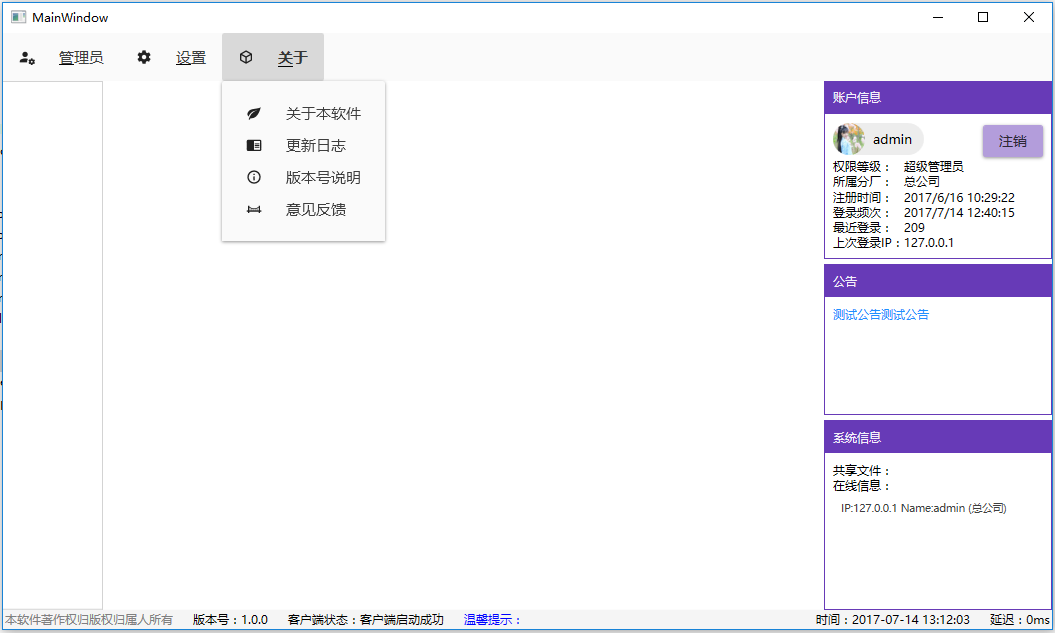
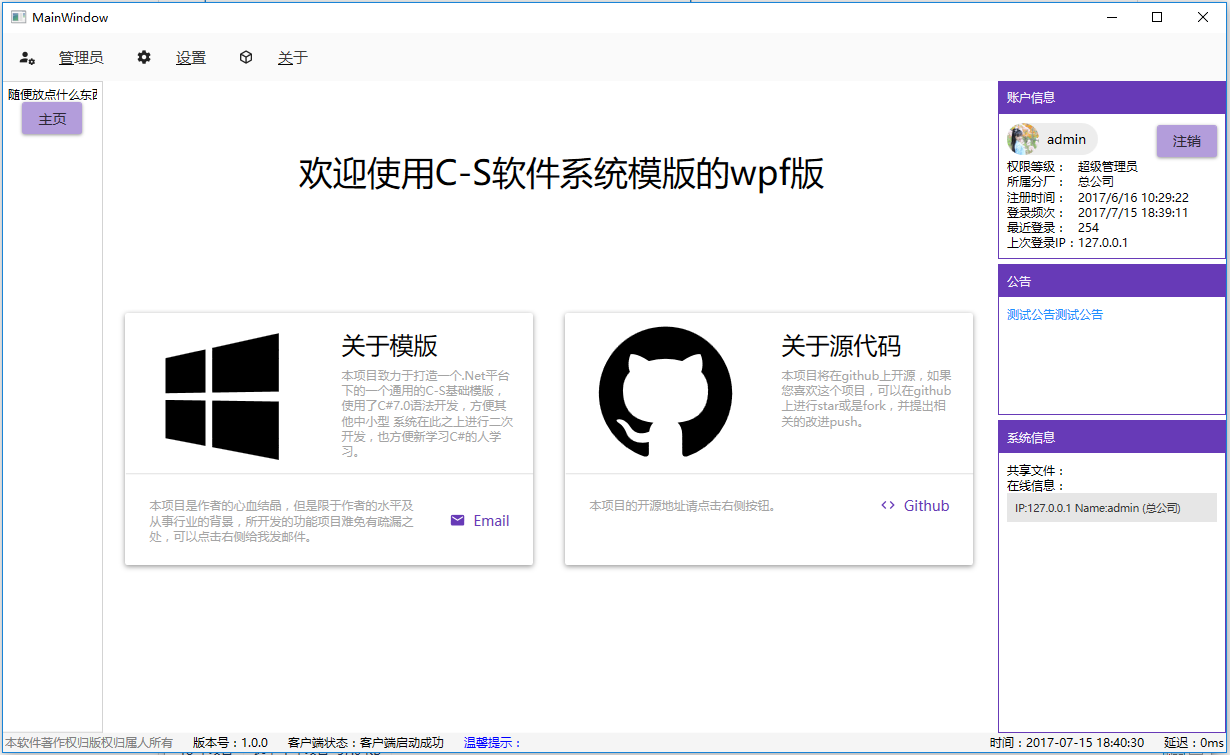
提供一个主界面显示一些项目描述。

diff --git a/软件系统客户端Wpf/Views/UserHome.xaml b/软件系统客户端Wpf/Views/UserHome.xaml
@@ -4,9 +4,111 @@
              xmlns:mc="http://schemas.openxmlformats.org/markup-compatibility/2006" 
              xmlns:d="http://schemas.microsoft.com/expression/blend/2008" 
              xmlns:local="clr-namespace:软件系统客户端Wpf.Views"
+             xmlns:materialDesign="http://materialdesigninxaml.net/winfx/xaml/themes"
              mc:Ignorable="d" 
-             d:DesignHeight="300" d:DesignWidth="300">
+             d:DesignHeight="500" d:DesignWidth="800">
+    <UserControl.Resources>
+        <ResourceDictionary>
+            <ResourceDictionary.MergedDictionaries>
+                <ResourceDictionary Source="pack://application:,,,/MaterialDesignThemes.Wpf;component/Themes/MaterialDesignTheme.Button.xaml" />
+                <ResourceDictionary Source="pack://application:,,,/MaterialDesignThemes.Wpf;component/Themes/MaterialDesignTheme.PopupBox.xaml" />
+                <ResourceDictionary Source="pack://application:,,,/MaterialDesignThemes.Wpf;component/Themes/MaterialDesignTheme.TextBlock.xaml" />
+                <!-- throw in some extra colour for our floating action button -->
+                <ResourceDictionary Source="pack://application:,,,/MaterialDesignColors;component/Themes/MaterialDesignColor.Green.Named.Primary.xaml" />
+            </ResourceDictionary.MergedDictionaries>
+        </ResourceDictionary>
+    </UserControl.Resources>
     <Grid>
-            
+        <Grid.RowDefinitions>
+            <RowDefinition Height="Auto" />
+            <RowDefinition Height="Auto" />
+        </Grid.RowDefinitions>
+        <Grid HorizontalAlignment="Center" VerticalAlignment="Top" Margin="16,50,16,16">
+            <Grid.ColumnDefinitions>
+                <ColumnDefinition Width="Auto" />
+                <ColumnDefinition Width="Auto" />
+            </Grid.ColumnDefinitions>
+            <!--<Image Source="Resources/ms-icon-310x310.png" Stretch="Uniform" Width="100" Height="100" />-->
+            <StackPanel Grid.Column="1" Margin="24 16 0 0" VerticalAlignment="Center">
+                <TextBlock Style="{StaticResource MaterialDesignDisplay1TextBlock}" TextWrapping="Wrap">欢迎使用C-S软件系统模版的wpf版</TextBlock>
+            </StackPanel>
+        </Grid>
+        <ScrollViewer Grid.Row="1" HorizontalScrollBarVisibility="Auto" VerticalScrollBarVisibility="Disabled"
+                      HorizontalAlignment="Center"
+                      VerticalAlignment="Bottom"
+                      Margin="0 100 0 32">
+            <Grid>
+                <StackPanel Orientation="Horizontal">
+                    <materialDesign:Card Width="420" Margin="4 2 8 16" Height="270">
+                        <Grid VerticalAlignment="Stretch">
+                            <Grid.RowDefinitions>
+                                <RowDefinition Height="Auto" />
+                                <RowDefinition Height="Auto" />
+                            </Grid.RowDefinitions>
+                            <Grid.ColumnDefinitions>
+                                <ColumnDefinition Width="200" />
+                                <ColumnDefinition Width="*" />
+                            </Grid.ColumnDefinitions>
+                            <materialDesign:PackIcon Kind="Windows" Width="160" Height="160" HorizontalAlignment="Center" VerticalAlignment="Center" />
+                            <StackPanel Grid.Column="1">
+                                <TextBlock Style="{StaticResource MaterialDesignHeadlineTextBlock}" Margin="16 16 16 8">关于模版</TextBlock>
+                                <TextBlock TextWrapping="Wrap" Margin="16 0 16 8" Foreground="{DynamicResource MaterialDesignBodyLight}"
+                                           VerticalAlignment="Top">本项目致力于打造一个.Net平台下的一个通用的C-S基础模版，使用了C#7.0语法开发，方便其他中小型
+                                系统在此之上进行二次开发，也方便新学习C#的人学习。</TextBlock>
+                            </StackPanel>
+                            <Border Grid.Row="1" Grid.ColumnSpan="2" BorderThickness="0 1 0 0" BorderBrush="{DynamicResource MaterialDesignDivider}" Padding="8">
+                                <DockPanel>
+                                    <Button Style="{DynamicResource MaterialDesignFlatButton}" 
+                                            DockPanel.Dock="Right" Click="EmailButton_Click"
+                                            ToolTip="hsl200909@163.com">
+                                        <StackPanel Orientation="Horizontal">
+                                            <materialDesign:PackIcon Kind="Email" />
+                                            <TextBlock Margin="8 0 0 0" VerticalAlignment="Center">Email</TextBlock>
+                                        </StackPanel>
+                                    </Button>
+                                    <TextBlock Foreground="{DynamicResource MaterialDesignBodyLight}" TextWrapping="Wrap" Margin="16" VerticalAlignment="Center">
+                                        本项目是作者的心血结晶，但是限于作者的水平及从事行业的背景，所开发的功能项目难免有疏漏之处，可以点击右侧给我发邮件。
+                                    </TextBlock>
+                                </DockPanel>
+                            </Border>
+                        </Grid>
+                    </materialDesign:Card>
+                    <materialDesign:Card Width="420" Margin="8 2 4 16" Height="270">
+                        <Grid VerticalAlignment="Stretch">
+                            <Grid.RowDefinitions>
+                                <RowDefinition Height="Auto" />
+                                <RowDefinition Height="Auto" />
+                            </Grid.RowDefinitions>
+                            <Grid.ColumnDefinitions>
+                                <ColumnDefinition Width="200" />
+                                <ColumnDefinition Width="*" />
+                            </Grid.ColumnDefinitions>
+                            <materialDesign:PackIcon Kind="GithubCircle" Width="160" Height="160" HorizontalAlignment="Center" VerticalAlignment="Center" />
+                            <StackPanel Grid.Column="1">
+                                <TextBlock Style="{StaticResource MaterialDesignHeadlineTextBlock}" Margin="16 16 16 8">关于源代码</TextBlock>
+                                <TextBlock TextWrapping="Wrap" Margin="16 0 16 8" Foreground="{DynamicResource MaterialDesignBodyLight}"
+                                           VerticalAlignment="Top">本项目将在github上开源，如果您喜欢这个项目，可以在github上进行star或是fork，并提出相关的改进push。</TextBlock>
+                            </StackPanel>
+                            <Border Grid.Row="1" Grid.ColumnSpan="2" BorderThickness="0 1 0 0" BorderBrush="{DynamicResource MaterialDesignDivider}" Padding="8">
+                                <DockPanel>
+                                    <Button Style="{DynamicResource MaterialDesignFlatButton}" 
+                                            DockPanel.Dock="Right"
+                                             Click="GithubButton_OnClick"
+                                            ToolTip="https://github.com/dathlin/C-S-">
+                                        <StackPanel Orientation="Horizontal">
+                                            <materialDesign:PackIcon Kind="CodeTags" />
+                                            <TextBlock Margin="8 0 0 0" VerticalAlignment="Center">Github</TextBlock>
+                                        </StackPanel>
+                                    </Button>
+                                    <TextBlock Foreground="{DynamicResource MaterialDesignBodyLight}" TextWrapping="Wrap" Margin="16" VerticalAlignment="Center">
+                                        本项目的开源地址请点击右侧按钮。
+                                    </TextBlock>
+                                </DockPanel>
+                            </Border>
+                        </Grid>
+                    </materialDesign:Card>
+                </StackPanel>
+            </Grid>
+        </ScrollViewer>
     </Grid>
 </UserControl>

diff --git a/软件系统客户端Wpf/MainWindow.xaml b/软件系统客户端Wpf/MainWindow.xaml
@@ -151,8 +151,14 @@
             </Grid>
 
             <Grid Width="100" DockPanel.Dock="Left">
-                <Border BorderThickness="0,1,1,1" BorderBrush="LightGray">
-                    <TextBlock>随便放点什么东西</TextBlock>
+                <Border BorderThickness="0,1,1,1" BorderBrush="LightGray" Padding="5">
+                    <StackPanel>
+                        <TextBlock>随便放点什么东西</TextBlock>
+                        <Button Style="{StaticResource MaterialDesignRaisedLightButton}" Grid.Column="1" Width="60" VerticalAlignment="Center"
+                                        Click="Button_BackMain_Click">
+                            主页
+                        </Button>
+                    </StackPanel>
                 </Border>
             </Grid>
 
@@ -246,14 +252,6 @@
             <!--主界面，应该设置成可以放置其他东西-->
             <Grid>
                 <ContentControl Margin="3" x:Name="UserContentControl">
-                    <StackPanel>
-                        <TextBlock>asdasdasd</TextBlock>
-                        <TextBlock>asdasdasddasdasd</TextBlock>
-                        <TextBlock>asdasdasd</TextBlock>
-                        <TextBlock>asdasasdasdasd</TextBlock>
-                        <TextBlock>asdasdasdasd</TextBlock>
-                        <TextBlock>asdasasdadasd</TextBlock>
-                    </StackPanel>
                 </ContentControl>
             </Grid>
             

diff --git a/软件系统客户端Wpf/LoginWindow.xaml b/软件系统客户端Wpf/LoginWindow.xaml
@@ -24,7 +24,7 @@
     </Window.Resources>
     <Window.Background>
         <LinearGradientBrush EndPoint="0.5,1" MappingMode="RelativeToBoundingBox" StartPoint="0.5,0">
-            <GradientStop Color="Azure" Offset="0"/>
+            <GradientStop Color="AliceBlue" Offset="0"/>
             <GradientStop Color="White" Offset="1"/>
         </LinearGradientBrush>
     </Window.Background>

diff --git a/软件系统客户端Wpf/MainWindow.xaml.cs b/软件系统客户端Wpf/MainWindow.xaml.cs
@@ -126,6 +126,8 @@ namespace 软件系统客户端Wpf
             SoftUserPortraitInitialization();
             SoftUserPortrait.DownloadUserPortraint();
             AccountChip.Content = UserClient.UserAccount.UserName;
+
+            SetShowRenderControl(UIControl_Home);
         }
 
         private void Window_Initialized(object sender, EventArgs e)
@@ -616,6 +618,8 @@ namespace 软件系统客户端Wpf
 
         private UserChat UIControls_Chat { get; set; }
 
+        private UserHome UIControl_Home { get; set; }
+
 
         /// <summary>
         /// 正在显示的子界面
@@ -652,6 +656,8 @@ namespace 软件系统客户端Wpf
             });
             all_main_render.Add(UIControls_Chat);
 
+            UIControl_Home = new UserHome();
+            all_main_render.Add(UIControl_Home);
         }
 
         private void SetShowRenderControl(UserControl control)
@@ -672,14 +678,18 @@ namespace 软件系统客户端Wpf
                     DoubleAnimation d_y2 = new DoubleAnimation(10, 0, TimeSpan.FromMilliseconds(100));
                     TranslateTransform tt2 = new TranslateTransform();
                     UserContentControl.RenderTransform = tt2;
+                    tt2.BeginAnimation(TranslateTransform.XProperty, d_y2);
                     UserContentControl.BeginAnimation(OpacityProperty, d_opacity2);
-                    tt.BeginAnimation(TranslateTransform.XProperty, d_y2);
                 };
 
                 UserContentControl.BeginAnimation(OpacityProperty, d_opacity);
                 tt.BeginAnimation(TranslateTransform.XProperty, d_y);
             }
         }
+
+
+
+
         private void SetShowRenderControl(Type typeControl)
         {
             UserControl control = null;
@@ -695,5 +705,10 @@ namespace 软件系统客户端Wpf
         }
 
         #endregion
+
+        private void Button_BackMain_Click(object sender, RoutedEventArgs e)
+        {
+            SetShowRenderControl(UIControl_Home);
+        }
     }
 }

diff --git a/软件系统客户端Wpf/LoginWindow.xaml.cs b/软件系统客户端Wpf/LoginWindow.xaml.cs
@@ -106,7 +106,7 @@ namespace 软件系统客户端Wpf
             };
 
             //延时
-            Thread.Sleep(200);
+            Thread.Sleep(400);
 
             //请求指令头数据，该数据需要更具实际情况更改
             OperateResultString result = UserClient.Net_simplify_client.ReadFromServer(CommonHeadCode.SimplifyHeadCode.维护检查);
@@ -135,7 +135,7 @@ namespace 软件系统客户端Wpf
             Dispatcher.Invoke(message_show, "正在检查账户...");
 
             //延时
-            Thread.Sleep(200);
+            Thread.Sleep(400);
 
             //===================================================================================
             //   根据实际情况校验，选择数据库校验或是将用户名密码发至服务器校验
@@ -180,7 +180,7 @@ namespace 软件系统客户端Wpf
             Dispatcher.Invoke(message_show, "正在验证版本...");
 
             //延时
-            Thread.Sleep(200);
+            Thread.Sleep(400);
 
             result = UserClient.Net_simplify_client.ReadFromServer(CommonLibrary.CommonHeadCode.SimplifyHeadCode.更新检查);
             if (result.IsSuccess)
@@ -229,7 +229,7 @@ namespace 软件系统客户端Wpf
              Dispatcher.Invoke(message_show, "正在下载参数...");
 
             //延时
-            Thread.Sleep(200);
+            Thread.Sleep(400);
 
 
             result = UserClient.Net_simplify_client.ReadFromServer(CommonLibrary.CommonHeadCode.SimplifyHeadCode.参数下载);
@@ -291,12 +291,12 @@ namespace 软件系统客户端Wpf
 
         private void ToggleButton_Checked(object sender, RoutedEventArgs e)
         {
-
+            LoginButton.Focus();
         }
 
         private void ToggleButton_Unchecked(object sender, RoutedEventArgs e)
         {
-
+            LoginButton.Focus();
         }
 
         private void Window_Loaded(object sender, RoutedEventArgs e)

diff --git a/软件系统客户端Wpf/Views/UserHome.xaml.cs b/软件系统客户端Wpf/Views/UserHome.xaml.cs
@@ -1,5 +1,8 @@
-using System;
+
+using System;
 using System.Collections.Generic;
+using System.Configuration;
+using System.Diagnostics;
 using System.Linq;
 using System.Text;
 using System.Threading.Tasks;
@@ -23,6 +26,16 @@ namespace 软件系统客户端Wpf.Views
         public UserHome()
         {
             InitializeComponent();
+        }
+
+        private void EmailButton_Click(object sender, RoutedEventArgs e)
+        {
+            Process.Start("mailto://hsl200909@163.com");
+        }
+
+        private void GithubButton_OnClick(object sender, RoutedEventArgs e)
+        {
+            Process.Start("https://github.com/dathlin/C-S-");
         }
     }
 }
